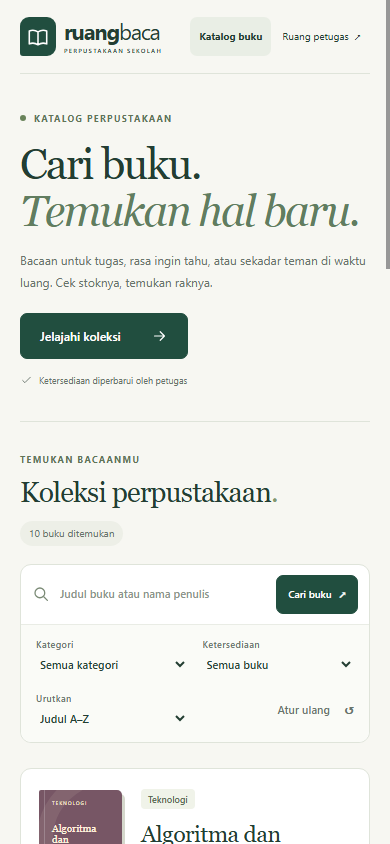
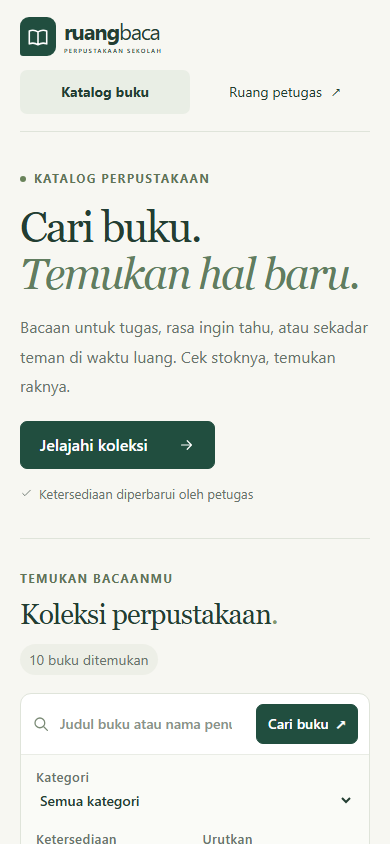
fix: perbesar font dan tingkatkan keterbacaan portal

diff --git a/public/css/perpustakaan.css b/public/css/perpustakaan.css
@@ -11,7 +11,7 @@
 }
 * { box-sizing: border-box; }
 html { scroll-behavior: smooth; }
-body { margin: 0; background: var(--paper); color: var(--ink); font: 14px/1.65 'Segoe UI', Arial, sans-serif; min-height: 100vh; display: flex; flex-direction: column; }
+body { margin: 0; background: var(--paper); color: var(--ink); font: 16px/1.65 'Segoe UI', Arial, sans-serif; min-height: 100vh; display: flex; flex-direction: column; }
 button, input, select, textarea { font: inherit; }
 a { color: inherit; text-decoration: none; }
 button { cursor: pointer; }
@@ -30,58 +30,58 @@ h1, h2, h3, p { margin: 0; }
 .brand-icon { display: grid; place-items: center; width: 44px; height: 44px; background: var(--green); color: #fff; border-radius: 12px 12px 12px 3px; }
 .brand-icon .icon { width: 25px; height: 25px; }
 .brand small { display: block; margin-top: 7px; font-size: 8px; font-weight: 600; letter-spacing: 1.8px; }
-.header nav { display: flex; gap: 8px; font-size: 13px; }
-.header nav a { display: inline-flex; align-items: center; gap: 14px; min-height: 42px; padding: 9px 17px; border-radius: 7px; transition: background .2s; }
+.header nav { display: flex; gap: 8px; font-size: 16px; }
+.header nav a { display: inline-flex; align-items: center; gap: 14px; min-height: 46px; padding: 9px 17px; border-radius: 7px; transition: background .2s; }
 .header nav a:hover, .header nav .active { background: #e9eee5; }
 .header nav .active { font-weight: 650; }
 main { width: 100%; max-width: 1200px; padding: 0 20px; margin: 0 auto; flex: 1; }
 .hero { display: grid; grid-template-columns: 1.12fr 1fr; align-items: center; gap: 58px; padding: 52px 0 54px; }
-.eyebrow { display: inline-flex; align-items: center; gap: 8px; font-size: 10px; letter-spacing: 1.6px; font-weight: 700; color: #617457; }
+.eyebrow { display: inline-flex; align-items: center; gap: 8px; font-size: 12px; letter-spacing: 1.6px; font-weight: 700; color: #617457; }
 .tiny-dot { width: 6px; height: 6px; background: #69835a; border-radius: 50%; }
 h1 { font: normal clamp(44px,4.5vw,64px)/1.08 var(--serif); letter-spacing: -2.2px; margin: 19px 0; }
 h1 em { color: #617d60; font-weight: normal; }
-.hero-copy > p { color: var(--muted); font-size: 14px; line-height: 1.85; }
-.button, .search-field button { display: inline-flex; align-items: center; justify-content: center; gap: 14px; padding: 10px 18px; min-height: 42px; border: 1px solid var(--green); border-radius: 7px; background: var(--green); color: white; font-size: 12px; font-weight: 600; transition: background .18s, border-color .18s, transform .18s; }
+.hero-copy > p { color: var(--muted); font-size: 16px; line-height: 1.85; }
+.button, .search-field button { line-height: 1.4; display: inline-flex; align-items: center; justify-content: center; gap: 14px; padding: 10px 18px; min-height: 46px; border: 1px solid var(--green); border-radius: 7px; background: var(--green); color: white; font-size: 16px; font-weight: 600; transition: background .18s, border-color .18s, transform .18s; }
 .button:hover:not(:disabled), .search-field button:hover { background: var(--green-hover); }
 .hero-button { margin-top: 24px; gap: 30px; padding: 12px 19px; }
 .hero-button .icon { width: 17px; }
-.hero-note { display: flex; gap: 6px; align-items: center; font-size: 10px; color: var(--muted); margin-top: 14px; }
+.hero-note { display: flex; gap: 6px; align-items: center; font-size: 13px; color: var(--muted); margin-top: 14px; }
 .hero-note .icon { width: 13px; height: 13px; }
 .featured-book { position: relative; display: grid; grid-template-columns: 162px 1fr; align-items: center; gap: 25px; padding: 42px 30px 28px; background: #e9ede2; border: 1px solid #e0e5d8; border-radius: 16px; min-height: 310px; }
 .featured-loading { grid-column: 1/-1; text-align: center; color: var(--muted); }
-.featured-label { position: absolute; top: 17px; left: 29px; font-size: 8px; letter-spacing: 1.7px; font-weight: 700; color: #68745f; }
+.featured-label { position: absolute; top: 17px; left: 29px; font-size: 12px; letter-spacing: 1.7px; font-weight: 700; color: #68745f; }
 .featured-stage { position: relative; padding: 8px 7px 10px; }
 .featured-stage::before { content: ''; position: absolute; inset: 10px 9px 10px 12px; background: #99a98e; border-radius: 2px 7px 7px 2px; transform: rotate(8deg); }
 .featured-stage > .book-cover { transform: rotate(-6deg); width: 148px; height: 218px; box-shadow: 6px 12px 17px #2c403629; }
 .featured-info { z-index: 1; }
-.featured-info > .eyebrow { font-size: 9px; letter-spacing: 1px; }
-.featured-info h2 { font-size: 25px; margin: 11px 0 6px; line-height: 1.15; }
-.featured-author { font-size: 11px; color: var(--muted); margin-bottom: 21px; }
-.featured-info .stock-tag { display: inline-block; font-size: 10px; }
-.featured-rack { display: block; font-size: 11px; color: var(--muted); margin-top: 7px; }
-.featured-action { border: 0; border-bottom: 1px solid #b7c1ab; background: transparent; padding: 0 0 4px; margin-top: 20px; font-size: 11px; color: var(--green); font-weight: 650; }
+.featured-info > .eyebrow { font-size: 12px; letter-spacing: 1px; }
+.featured-info h2 { font-size: 28px; margin: 11px 0 6px; line-height: 1.15; }
+.featured-author { font-size: 14px; color: var(--muted); margin-bottom: 21px; }
+.featured-info .stock-tag { display: inline-block; font-size: 14px; }
+.featured-rack { display: block; font-size: 14px; color: var(--muted); margin-top: 7px; }
+.featured-action { border: 0; border-bottom: 1px solid #b7c1ab; background: transparent; padding: 0 0 4px; margin-top: 20px; font-size: 14px; color: var(--green); font-weight: 650; }
 .featured-action span { margin-left: 11px; }
 .collection { border-top: 1px solid var(--line); padding: 32px 0 24px; scroll-margin-top: 20px; }
 .section-heading { display: flex; align-items: center; justify-content: space-between; gap: 20px; margin-bottom: 23px; }
-h2 { font: normal 31px/1.2 var(--serif); letter-spacing: -.8px; margin-top: 7px; }
+h2 { font: normal 34px/1.25 var(--serif); letter-spacing: -.8px; margin-top: 7px; }
 .heading-dot { color: #82986d; }
-.collection-count { font-size: 11px; color: var(--muted); background: #edeFE7; padding: 6px 11px; border-radius: 30px; }
-.muted { color: var(--muted); font-size: 12px; }
+.collection-count { font-size: 14px; color: var(--muted); background: #edeFE7; padding: 6px 11px; border-radius: 30px; }
+.muted { color: var(--muted); font-size: 16px; }
 .filters { padding: 0; margin-bottom: 25px; background: var(--white); border: 1px solid var(--line); border-radius: 11px; }
 .search-field { display: flex !important; flex-direction: row; align-items: center; gap: 13px; padding: 12px 15px 12px 19px; }
 .search-field > .icon { color: #7a8a75; }
-.search-field input { flex: 1; min-width: 0; border: 0; padding: 9px 0; background: transparent; font-size: 13px; }
+.search-field input { flex: 1; min-width: 0; border: 0; padding: 9px 0; background: transparent; font-size: 16px; }
 .search-field input:focus-visible { outline-offset: 1px; }
 .search-field button { flex-shrink: 0; }
 .filter-row { display: grid; grid-template-columns: 1fr 1fr 1fr auto; align-items: center; gap: 20px; padding: 12px 19px; border-top: 1px solid #e9ece5; background: #fafbf7; border-radius: 0 0 11px 11px; }
-.filter-row label { font-size: 9px; color: var(--muted); letter-spacing: .4px; gap: 1px; }
-.filter-row select { background: transparent; border: 0; padding: 3px 19px 3px 0; color: var(--ink); font-size: 12px; max-width: 100%; }
+.filter-row label { font-size: 13px; color: var(--muted); letter-spacing: .4px; gap: 1px; }
+.filter-row select { background: transparent; border: 0; padding: 3px 19px 3px 0; color: var(--ink); font-size: 16px; max-width: 100%; }
 .filter-row label + label { padding-left: 20px; border-left: 1px solid var(--line); }
 .secondary { color: var(--green); background: var(--white); border-color: var(--line); }
 .secondary:hover:not(:disabled) { color: var(--green); background: var(--soft); border-color: #b4c2ac; }
 .quiet { background: transparent; border-color: transparent; color: var(--muted); }
 .quiet:hover:not(:disabled) { background: var(--soft); color: var(--green); }
-.status { font-size: 12px; margin: 12px 0; padding: 10px 14px; background: var(--soft); border-radius: 7px; }
+.status { font-size: 16px; margin: 12px 0; padding: 10px 14px; background: var(--soft); border-radius: 7px; }
 .status:empty { display: none; }
 .error { color: #a43b2f; background: #faf0ec; }
 .book-grid { display: grid; grid-template-columns: repeat(3,minmax(0,1fr)); gap: 18px; }
@@ -90,18 +90,18 @@ h2 { font: normal 31px/1.2 var(--serif); letter-spacing: -.8px; margin-top: 7px;
 .book-visual { align-self: start; padding-top: 1px; }
 .book-info { min-width: 0; }
 .card-top { display: flex; align-items: center; gap: 8px; }
-.category-tag { display: inline-block; font-size: 9px; font-weight: 600; color: #52664c; background: #f0f3e9; padding: 3px 7px; border-radius: 4px; }
-.book-card h3 { font: normal 21px/1.2 var(--serif); letter-spacing: -.5px; margin: 12px 0 7px; overflow-wrap: anywhere; }
-.book-card .author { color: var(--muted); font-size: 11px; line-height: 1.5; }
-.book-code { display: block; font-size: 9px; letter-spacing: 1px; color: #7c877e; margin-top: 10px; }
+.category-tag { display: inline-block; font-size: 12px; font-weight: 600; color: #52664c; background: #f0f3e9; padding: 3px 7px; border-radius: 4px; }
+.book-card h3 { font: normal 24px/1.25 var(--serif); letter-spacing: -.5px; margin: 12px 0 7px; overflow-wrap: anywhere; }
+.book-card .author { color: var(--muted); font-size: 14px; line-height: 1.5; }
+.book-code { display: block; font-size: 12px; letter-spacing: 1px; color: #7c877e; margin-top: 10px; }
 .card-bottom { grid-column: 1/-1; display: flex; justify-content: space-between; align-items: center; gap: 8px; border-top: 1px solid #edf0e8; padding-top: 13px; margin-top: 17px; }
-.stock-tag { color: #345d42; background: #edf4eb; border-radius: 30px; padding: 3px 8px; font-size: 10px; }
+.stock-tag { color: #345d42; background: #edf4eb; border-radius: 30px; padding: 3px 8px; font-size: 14px; }
 .stock-tag::before { content: ''; display: inline-block; width: 5px; height: 5px; border-radius: 50%; background: #5f8a5c; margin-right: 5px; vertical-align: 1px; }
 .stock-tag.empty { color: #986036; background: #fbf1e4; }
 .stock-tag.empty::before { background: #ac7b4b; }
-.rack { display: inline-flex; align-items: center; gap: 4px; font-size: 10px; color: var(--muted); }
+.rack { display: inline-flex; align-items: center; gap: 4px; font-size: 14px; color: var(--muted); }
 .rack .icon { width: 13px; height: 13px; }
-.detail-button { grid-column: 1/-1; display: flex; justify-content: space-between; align-items: center; width: 100%; border: 0; background: transparent; color: var(--green); padding: 12px 0 0; font-size: 11px; font-weight: 650; text-align: left; }
+.detail-button { grid-column: 1/-1; display: flex; justify-content: space-between; align-items: center; width: 100%; border: 0; background: transparent; color: var(--green); padding: 12px 0 0; font-size: 14px; font-weight: 650; text-align: left; }
 .detail-button .icon { width: 15px; height: 15px; }
 .book-cover { --cover: #315849; --cover-ink: #f7eed6; position: relative; isolation: isolate; display: flex; flex-direction: column; width: 88px; height: 132px; overflow: hidden; padding: 10px 9px 8px 13px; color: var(--cover-ink); background: var(--cover); border-radius: 2px 5px 5px 2px; box-shadow: 3px 4px 0 #d5d8cc; }
 .book-cover::before { content: ''; position: absolute; top: 0; left: 5px; width: 1px; height: 100%; background: #ffffff35; z-index: 2; }
@@ -121,45 +121,45 @@ h2 { font: normal 31px/1.2 var(--serif); letter-spacing: -.8px; margin-top: 7px;
 .featured-stage .cover-author { font-size: 9px; margin-top: 12px; }
 .featured-stage .cover-footer { font-size: 7px; letter-spacing: 1.5px; }
 .featured-stage .book-cover::after { width: 170px; height: 170px; border-width: 26px; right: -85px; bottom: 8px; }
-.pagination { display: flex; justify-content: center; align-items: center; gap: 24px; margin: 28px 0 8px; font-size: 11px; color: var(--muted); }
-.pagination .button { padding: 8px 13px; font-size: 11px; min-height: 38px; }
+.pagination { display: flex; justify-content: center; align-items: center; gap: 24px; margin: 28px 0 8px; font-size: 14px; color: var(--muted); }
+.pagination .button { padding: 8px 13px; font-size: 14px; min-height: 38px; }
 .empty-state { grid-column: 1/-1; padding: 52px 20px; text-align: center; border: 1px dashed #c8d2c0; border-radius: 10px; color: var(--muted); background: white; }
 .info-banner { display: flex; align-items: center; gap: 17px; margin: 15px 0 50px; padding: 25px 29px; border: 1px solid #e1e6d9; background: #edf0e5; border-radius: 11px; }
 .info-icon { display: grid; place-items: center; width: 43px; height: 43px; border: 1px solid #c7d1bb; border-radius: 10px; color: #5c7754; flex-shrink: 0; }
-.info-banner strong { font-size: 13px; font-weight: 650; }
-.info-banner p { color: var(--muted); font-size: 11px; margin-top: 3px; }
+.info-banner strong { font-size: 16px; font-weight: 650; }
+.info-banner p { color: var(--muted); font-size: 14px; margin-top: 3px; }
 .info-ending { margin-left: auto; padding-left: 28px; border-left: 1px solid #d3dcc8; font: normal 15px/1.4 var(--serif); white-space: nowrap; color: #64745a; }
-footer { display: flex; align-items: center; justify-content: space-between; gap: 20px; max-width: 1160px; width: calc(100% - 80px); border-top: 1px solid var(--line); padding: 25px 0; margin: auto; font-size: 11px; color: var(--muted); }
+footer { display: flex; align-items: center; justify-content: space-between; gap: 20px; max-width: 1160px; width: calc(100% - 80px); border-top: 1px solid var(--line); padding: 25px 0; margin: auto; font-size: 14px; color: var(--muted); }
 .footer-brand { display: flex; align-items: center; gap: 7px; font-size: 19px; letter-spacing: -.8px; font-weight: 700; color: var(--green); }
 .footer-brand > span { font-weight: 400; margin-left: -7px; }
-footer small { font-size: 10px; }
+footer small { font-size: 14px; }
 footer small > span { margin: 0 7px; }
 .admin-heading { display: flex; align-items: center; justify-content: space-between; gap: 20px; padding: 40px 0 25px; }
 .admin-heading h1 { font-size: 43px; margin: 12px 0; }
-.back-link { font-size: 12px; padding-bottom: 3px; border-bottom: 1px solid #c8d2c0; }
+.back-link { font-size: 16px; padding-bottom: 3px; border-bottom: 1px solid #c8d2c0; }
 .login-panel { display: grid; grid-template-columns: 1fr 1.1fr; max-width: 920px; margin: 12px auto 65px; border: 1px solid var(--line); border-radius: 14px; overflow: hidden; background: #fff; }
 .login-intro { padding: 39px; background: #e9eee3; }
 .login-intro h2 { font-size: 38px; margin: 23px 0 18px; line-height: 1.1; }
 .login-intro h2 em { color: #67805d; font-weight: normal; }
-.login-intro p { font-size: 12px; color: var(--muted); max-width: 260px; }
-.login-intro > small { display: block; margin-top: 26px; color: var(--muted); font-size: 10px; }
+.login-intro p { font-size: 16px; color: var(--muted); max-width: 260px; }
+.login-intro > small { display: block; margin-top: 26px; color: var(--muted); font-size: 14px; }
 .login-illustration { display: flex; align-items: flex-end; justify-content: center; gap: 8px; padding: 0 17px; border-bottom: 5px solid #a7b695; height: 142px; width: 240px; margin: 20px 0 0; }
 .login-spine { width: 44px; height: 110px; border-radius: 4px 4px 0 0; padding: 14px; background: #436c53; color: #f5efda; font-size: 8px; letter-spacing: 1.2px; writing-mode: vertical-rl; border-left: 4px solid #ffffff25; }
 .login-spine:nth-child(2) { height: 127px; background: #b67e57; width: 49px; }
 .login-spine:nth-child(3) { height: 98px; background: #858a5b; transform: rotate(9deg); transform-origin: bottom; }
 #login-form { display: grid; align-content: center; gap: 23px; padding: 42px; }
 #login-form h2 { font-size: 29px; margin: 9px 0 9px; }
-form label, .field-group > label { display: flex; flex-direction: column; font-size: 12px; font-weight: 600; gap: 7px; }
-input, select, textarea { width: 100%; min-width: 0; border: 1px solid #d5ddce; padding: 11px 13px; border-radius: 6px; background: white; color: var(--ink); }
+form label, .field-group > label { line-height: 1.5; display: flex; flex-direction: column; font-size: 16px; font-weight: 600; gap: 7px; }
+input, select, textarea { font-size: 16px; width: 100%; min-width: 0; border: 1px solid #d5ddce; padding: 11px 13px; border-radius: 6px; background: white; color: var(--ink); }
 input::placeholder, textarea::placeholder { color: #8a9389; }
 textarea { min-height: 95px; resize: vertical; }
 .field-group { display: grid; gap: 7px; }
 .password-field { display: flex; align-items: stretch; border: 1px solid #d5ddce; border-radius: 6px; }
 .password-field:focus-within { outline: 2px solid #6a8e74; outline-offset: 2px; }
 .password-field input { border: 0; outline: 0; }
-.password-field button { padding: 5px 12px; border: 0; background: transparent; color: var(--green); font-size: 11px; font-weight: 600; }
+.password-field button { padding: 5px 12px; border: 0; background: transparent; color: var(--green); font-size: 14px; font-weight: 600; }
 .login-submit { width: 100%; justify-content: space-between; }
-.login-help { display: flex; align-items: center; gap: 7px; color: var(--muted); font-size: 10px; }
+.login-help { display: flex; align-items: center; gap: 7px; color: var(--muted); font-size: 14px; }
 .login-help .icon { width: 14px; height: 14px; }
 #admin-panel { margin: 12px 0 55px; }
 #admin-panel .section-heading { align-items: flex-end; }
@@ -167,14 +167,14 @@ textarea { min-height: 95px; resize: vertical; }
 .actions { display: flex; align-items: center; flex-wrap: wrap; gap: 8px; }
 .admin-search { display: flex; gap: 9px; max-width: 490px; margin-bottom: 20px; }
 .admin-search label { flex: 1; }
-.table-wrap { overflow-x: auto; border: 1px solid var(--line); border-radius: 10px; background: #fff; }
-table { width: 100%; border-collapse: collapse; font-size: 12px; }
-th { background: #edf1e8; font-size: 9px; letter-spacing: .6px; text-transform: uppercase; text-align: left; color: #617457; white-space: nowrap; }
+.table-wrap { max-width: 100%; overflow-x: auto; border: 1px solid var(--line); border-radius: 10px; background: #fff; }
+table { width: 100%; min-width: 1080px; border-collapse: collapse; font-size: 16px; }
+th { background: #edf1e8; font-size: 13px; letter-spacing: .6px; text-transform: uppercase; text-align: left; color: #617457; white-space: nowrap; }
 td, th { padding: 17px; border-bottom: 1px solid var(--line); }
 tr:last-child td { border-bottom: 0; }
-td small { display: block; color: var(--muted); font-size: 10px; margin-top: 4px; }
-.row-actions { display: flex; gap: 5px; }
-.row-actions button { border: 1px solid #e0e6d8; padding: 6px 8px; background: #f4f6ef; color: var(--green); border-radius: 5px; font-size: 10px; }
+td small { display: block; color: var(--muted); font-size: 14px; margin-top: 4px; }
+.row-actions { display: flex; gap: 7px; }
+.row-actions button { min-height: 36px; border: 1px solid #e0e6d8; padding: 6px 8px; background: #f4f6ef; color: var(--green); border-radius: 5px; font-size: 14px; }
 .row-actions button:hover { background: #e8eee0; }
 .row-actions .danger { color: #a4493b; background: #fcf4ee; border-color: #f1e3d8; }
 dialog { width: min(680px,calc(100% - 30px)); max-height: 90vh; padding: 30px; border: 1px solid var(--line); border-radius: 14px; background: var(--paper); color: var(--ink); box-shadow: 0 24px 90px #163c3230; }
@@ -183,19 +183,19 @@ dialog::backdrop { background: #18382e77; backdrop-filter: blur(4px); }
 .modal-heading h2 { font-size: 28px; margin: 0; }
 .icon-button { display: grid; place-items: center; min-width: 30px; min-height: 30px; border: 0; background: transparent; color: var(--muted); font-size: 29px; line-height: 1; }
 .detail-meta { display: grid; grid-template-columns: 1fr 1fr; gap: 17px; padding: 20px; margin: 20px 0; border: 1px solid var(--line); border-radius: 9px; background: white; }
-.detail-meta dt { color: var(--muted); font-size: 10px; }
-.detail-meta dd { margin: 4px 0 0; font-size: 13px; overflow-wrap: anywhere; }
-.detail-description { font-size: 13px; color: var(--muted); white-space: pre-wrap; }
+.detail-meta dt { color: var(--muted); font-size: 14px; }
+.detail-meta dd { margin: 4px 0 0; font-size: 16px; overflow-wrap: anywhere; }
+.detail-description { font-size: 16px; color: var(--muted); white-space: pre-wrap; }
 .dialog-form { display: grid; gap: 16px; }
 .form-row { display: grid; grid-template-columns: 1fr 1fr; gap: 16px; }
 .dialog-form .button { margin-top: 5px; }
 .category-list { margin-top: 23px; }
 .category-item { display: flex; align-items: center; gap: 10px; padding: 9px 0; border-bottom: 1px solid var(--line); }
 .category-item > span { flex: 1; }
-.history-item { margin-left: 5px; padding: 3px 0 20px 18px; border-left: 2px solid #a8b99a; font-size: 12px; }
+.history-item { margin-left: 5px; padding: 3px 0 20px 18px; border-left: 2px solid #a8b99a; font-size: 16px; }
 .history-item small { display: block; color: var(--muted); margin-top: 5px; }
 .metadata-item { padding: 14px 0; border-bottom: 1px solid var(--line); }
-.metadata-item p { color: var(--muted); font-size: 11px; margin-top: 4px; }
+.metadata-item p { color: var(--muted); font-size: 14px; margin-top: 4px; }
 @media (max-width: 1080px) {
     .hero { gap: 30px; }
     .featured-book { grid-template-columns: 145px 1fr; padding-left: 22px; padding-right: 22px; gap: 18px; }
@@ -208,7 +208,7 @@ dialog::backdrop { background: #18382e77; backdrop-filter: blur(4px); }
     .header, footer { width: calc(100% - 40px); }
     .hero { grid-template-columns: 1fr; padding: 35px 0; gap: 30px; }
     .hero h1 { font-size: 54px; }
-    .hero-copy > p { font-size: 14px; }
+    .hero-copy > p { font-size: 16px; }
     .featured-book { grid-template-columns: 150px 1fr; width: 100%; max-width: 520px; min-height: 270px; padding: 37px 25px 22px; justify-self: center; }
     .featured-stage > .book-cover { width: 130px; height: 190px; }
     .featured-stage .cover-title { font-size: 22px; margin-top: 25px; }
@@ -218,7 +218,7 @@ dialog::backdrop { background: #18382e77; backdrop-filter: blur(4px); }
     .book-cover { width: 70px; height: 114px; padding: 8px 7px 7px 10px; }
     .cover-title { font-size: 9.5px; margin-top: 13px; }
     .cover-author { font-size: 5px; }
-    .book-card h3 { font-size: 20px; }
+    .book-card h3 { font-size: 24px; }
     .filter-row { gap: 13px; padding: 12px 15px; }
     .filter-row label + label { padding-left: 13px; }
     footer { flex-wrap: wrap; }
@@ -234,71 +234,72 @@ dialog::backdrop { background: #18382e77; backdrop-filter: blur(4px); }
     #admin-panel .section-heading { align-items: flex-start; flex-direction: column; }
 }
 @media (max-width: 540px) {
-    body { font-size: 13px; }
-    .header { padding: 17px 0; gap: 15px; }
+    body { font-size: 16px; }
+    .header { padding: 17px 0; gap: 14px; flex-wrap: wrap; }
     .brand { font-size: 22px; gap: 8px; }
     .brand-icon { width: 36px; height: 39px; border-radius: 9px 9px 9px 3px; }
     .brand-icon .icon { width: 22px; height: 22px; }
     .brand small { font-size: 6px; letter-spacing: 1.3px; margin-top: 5px; }
-    .header nav { gap: 2px; font-size: 10px; }
-    .header nav a { padding: 7px 9px; min-height: 39px; gap: 5px; }
+    .header nav { width: 100%; justify-content: space-between; gap: 10px; font-size: 14px; }
+    .header nav a { flex: 1; justify-content: center; padding: 9px; min-height: 44px; gap: 9px; }
     .hero { padding: 31px 0 33px; gap: 27px; }
     .hero h1 { font-size: clamp(40px,11vw,53px); letter-spacing: -1.7px; margin: 15px 0; }
-    .hero-copy > p { font-size: 12px; }
-    .hero-button { margin-top: 20px; font-size: 12px; }
-    .hero-note { font-size: 9px; }
-    .eyebrow { font-size: 9px; letter-spacing: 1.3px; }
+    .hero-copy > p { font-size: 16px; }
+    .hero-button { margin-top: 20px; font-size: 16px; }
+    .hero-note { font-size: 13px; }
+    .eyebrow { font-size: 12px; letter-spacing: 1.3px; }
     .featured-book { display: none; padding: 36px 19px 19px; grid-template-columns: 128px minmax(0,1fr); gap: 21px; min-height: 251px; border-radius: 12px; }
-    .featured-label { font-size: 7px; left: 22px; top: 14px; }
+    .featured-label { font-size: 12px; left: 22px; top: 14px; }
     .featured-stage { padding-left: 3px; }
     .featured-stage > .book-cover { width: 117px; height: 179px; padding: 16px 12px 12px 17px; }
     .featured-stage .cover-title { font-size: 21px; margin-top: 25px; }
     .featured-stage .cover-author { font-size: 8px; }
     .featured-stage .cover-kicker { font-size: 7px; }
     .featured-stage .cover-footer { font-size: 6px; }
-    .featured-info h2 { font-size: 24px; }
-    .featured-info > .eyebrow { font-size: 8px; }
-    .featured-author { font-size: 10px; margin-bottom: 13px; }
-    .featured-action { margin-top: 15px; font-size: 10px; }
+    .featured-info h2 { font-size: 28px; }
+    .featured-info > .eyebrow { font-size: 12px; }
+    .featured-author { font-size: 14px; margin-bottom: 13px; }
+    .featured-action { margin-top: 15px; font-size: 14px; }
     .collection { padding-top: 25px; }
     .section-heading { flex-wrap: wrap; gap: 12px; margin-bottom: 18px; }
     h2 { font-size: 28px; }
-    .collection-count { font-size: 10px; padding: 4px 9px; }
+    .collection-count { font-size: 14px; padding: 4px 9px; }
     .search-field { gap: 10px; padding: 10px 11px; }
     .search-field > .icon { width: 18px; }
-    .search-field input { font-size: 11px; }
-    .search-field button { padding: 9px 11px; font-size: 10px; min-height: 39px; gap: 7px; }
+    .search-field input { font-size: 14px; }
+    .search-field button { padding: 9px 11px; font-size: 14px; min-height: 39px; gap: 7px; }
     .filter-row { grid-template-columns: 1fr 1fr; gap: 15px; padding: 12px 15px; }
     .filter-row label + label { padding-left: 0; border: 0; }
-    .filter-row label { font-size: 9px; }
-    .filter-row select { font-size: 11px; }
-    .filter-row .quiet { justify-self: end; font-size: 11px; padding: 6px 0; min-height: 33px; }
+    .filter-row label:first-child { grid-column: 1 / -1; }
+    .filter-row label { font-size: 13px; }
+    .filter-row select { font-size: 14px; }
+    .filter-row .quiet { grid-column: 1 / -1; justify-self: end; font-size: 14px; padding: 6px 0; min-height: 33px; }
     .book-grid { grid-template-columns: 1fr; gap: 13px; }
     .book-card { grid-template-columns: 83px minmax(0,1fr); gap: 0 19px; padding: 20px 18px 15px; }
     .book-cover { width: 83px; height: 125px; padding: 10px 9px 8px 13px; }
     .cover-title { font-size: 10px; margin-top: 17px; }
     .cover-author { font-size: 6px; }
-    .book-card h3 { font-size: 23px; margin-top: 12px; }
-    .book-card .author { font-size: 12px; }
+    .book-card h3 { font-size: 24px; margin-top: 12px; }
+    .book-card .author { font-size: 16px; }
     .card-bottom { margin-top: 16px; }
-    .pagination { gap: 10px; font-size: 10px; }
-    .pagination .button { padding: 8px 10px; font-size: 10px; }
+    .pagination { flex-wrap: wrap; gap: 10px; font-size: 14px; }
+    .pagination .button { padding: 8px 10px; font-size: 14px; }
     .info-banner { padding: 20px 17px; gap: 13px; margin-bottom: 30px; align-items: flex-start; }
-    .info-banner p { font-size: 10px; line-height: 1.7; }
+    .info-banner p { font-size: 14px; line-height: 1.7; }
     footer { gap: 10px; padding: 23px 0; }
     .footer-brand { font-size: 17px; }
-    footer small { font-size: 9px; }
+    footer small { font-size: 12px; }
     .admin-heading { flex-direction: column; gap: 13px; padding-bottom: 19px; }
     .admin-heading h1 { font-size: 37px; }
     .login-panel { grid-template-columns: 1fr; margin-top: 8px; margin-bottom: 35px; }
     .login-intro { padding: 25px; }
     .login-intro h2 { font-size: 31px; margin: 14px 0; }
     .login-intro h2 br { display: none; }
-    .login-intro p { max-width: 100%; font-size: 11px; }
+    .login-intro p { max-width: 100%; font-size: 14px; }
     .login-illustration, .login-intro > small { display: none; }
     #login-form { padding: 25px; gap: 21px; }
     #login-form h2 { font-size: 27px; }
-    .actions .button { font-size: 10px; padding: 9px 11px; }
+    .actions .button { font-size: 14px; padding: 9px 11px; }
     .form-row { grid-template-columns: 1fr; }
     dialog { padding: 22px; }
     .modal-heading h2 { font-size: 26px; }
@@ -315,6 +316,6 @@ dialog::backdrop { background: #18382e77; backdrop-filter: blur(4px); }
     .brand { font-size: 19px; gap: 6px; }
     .brand-icon { width: 32px; height: 35px; }
     .brand small { font-size: 5.5px; letter-spacing: 1px; }
-    .header nav { gap: 1px; }
-    .header nav a { font-size: 9px; padding: 6px 7px; gap: 3px; }
+    .header nav { gap: 8px; }
+    .header nav a { font-size: 14px; padding: 9px; gap: 7px; }
 }

diff --git a/docs/hasil-pengujian.md b/docs/hasil-pengujian.md
@@ -2,6 +2,12 @@
 
 Pemeriksaan lokal pada **8 November 2026, WIB**. Ini hasil dari eksekusi pada komputer Bilal, bukan hasil GitHub Actions. Tidak ada klaim deployment publik atau release GitHub.
 
+## Perbesaran font dan keterbacaan
+
+Font teks utama, input dan label formulir terverifikasi **16 px** melalui computed style browser. Font informasi buku, filter, tombol, tabel dan dialog ikut diperbesar; navigasi ponsel disusun dua baris agar tetap terbaca.
+
+Pemeriksaan pada 8 November 2026 mencakup **18 kombinasi halaman/ukuran layar**: katalog, login dan petugas pada lebar 320, 360, 390, 600, 768 dan 1440 px. Seluruhnya tidak meluber horizontal. Dialog detail, tambah buku, stok dan kategori juga diperiksa; **0 error JavaScript**. Tabel petugas dapat digeser di dalam wadahnya pada layar sempit. Pemeriksaan ini tidak mengubah atau menambah data buku. Screenshot katalog, login dan halaman petugas telah diperbarui.
+
 ## Pembaruan tampilan Ruang Baca
 
 Pemeriksaan antarmuka pada 8 November 2026: **20 alur browser lulus**, **0 error JavaScript**. Pemeriksaan mencakup pagination maju/mundur, filter kategori otomatis, reset, hasil kosong, pencarian, detail, tombol lihat/sembunyikan kata sandi, login/logout, CRUD buku dan kategori, pembaruan stok serta riwayat. Layar 320, 360, 390 dan 768 piksel tidak meluber horizontal pada pemeriksaan ini.
